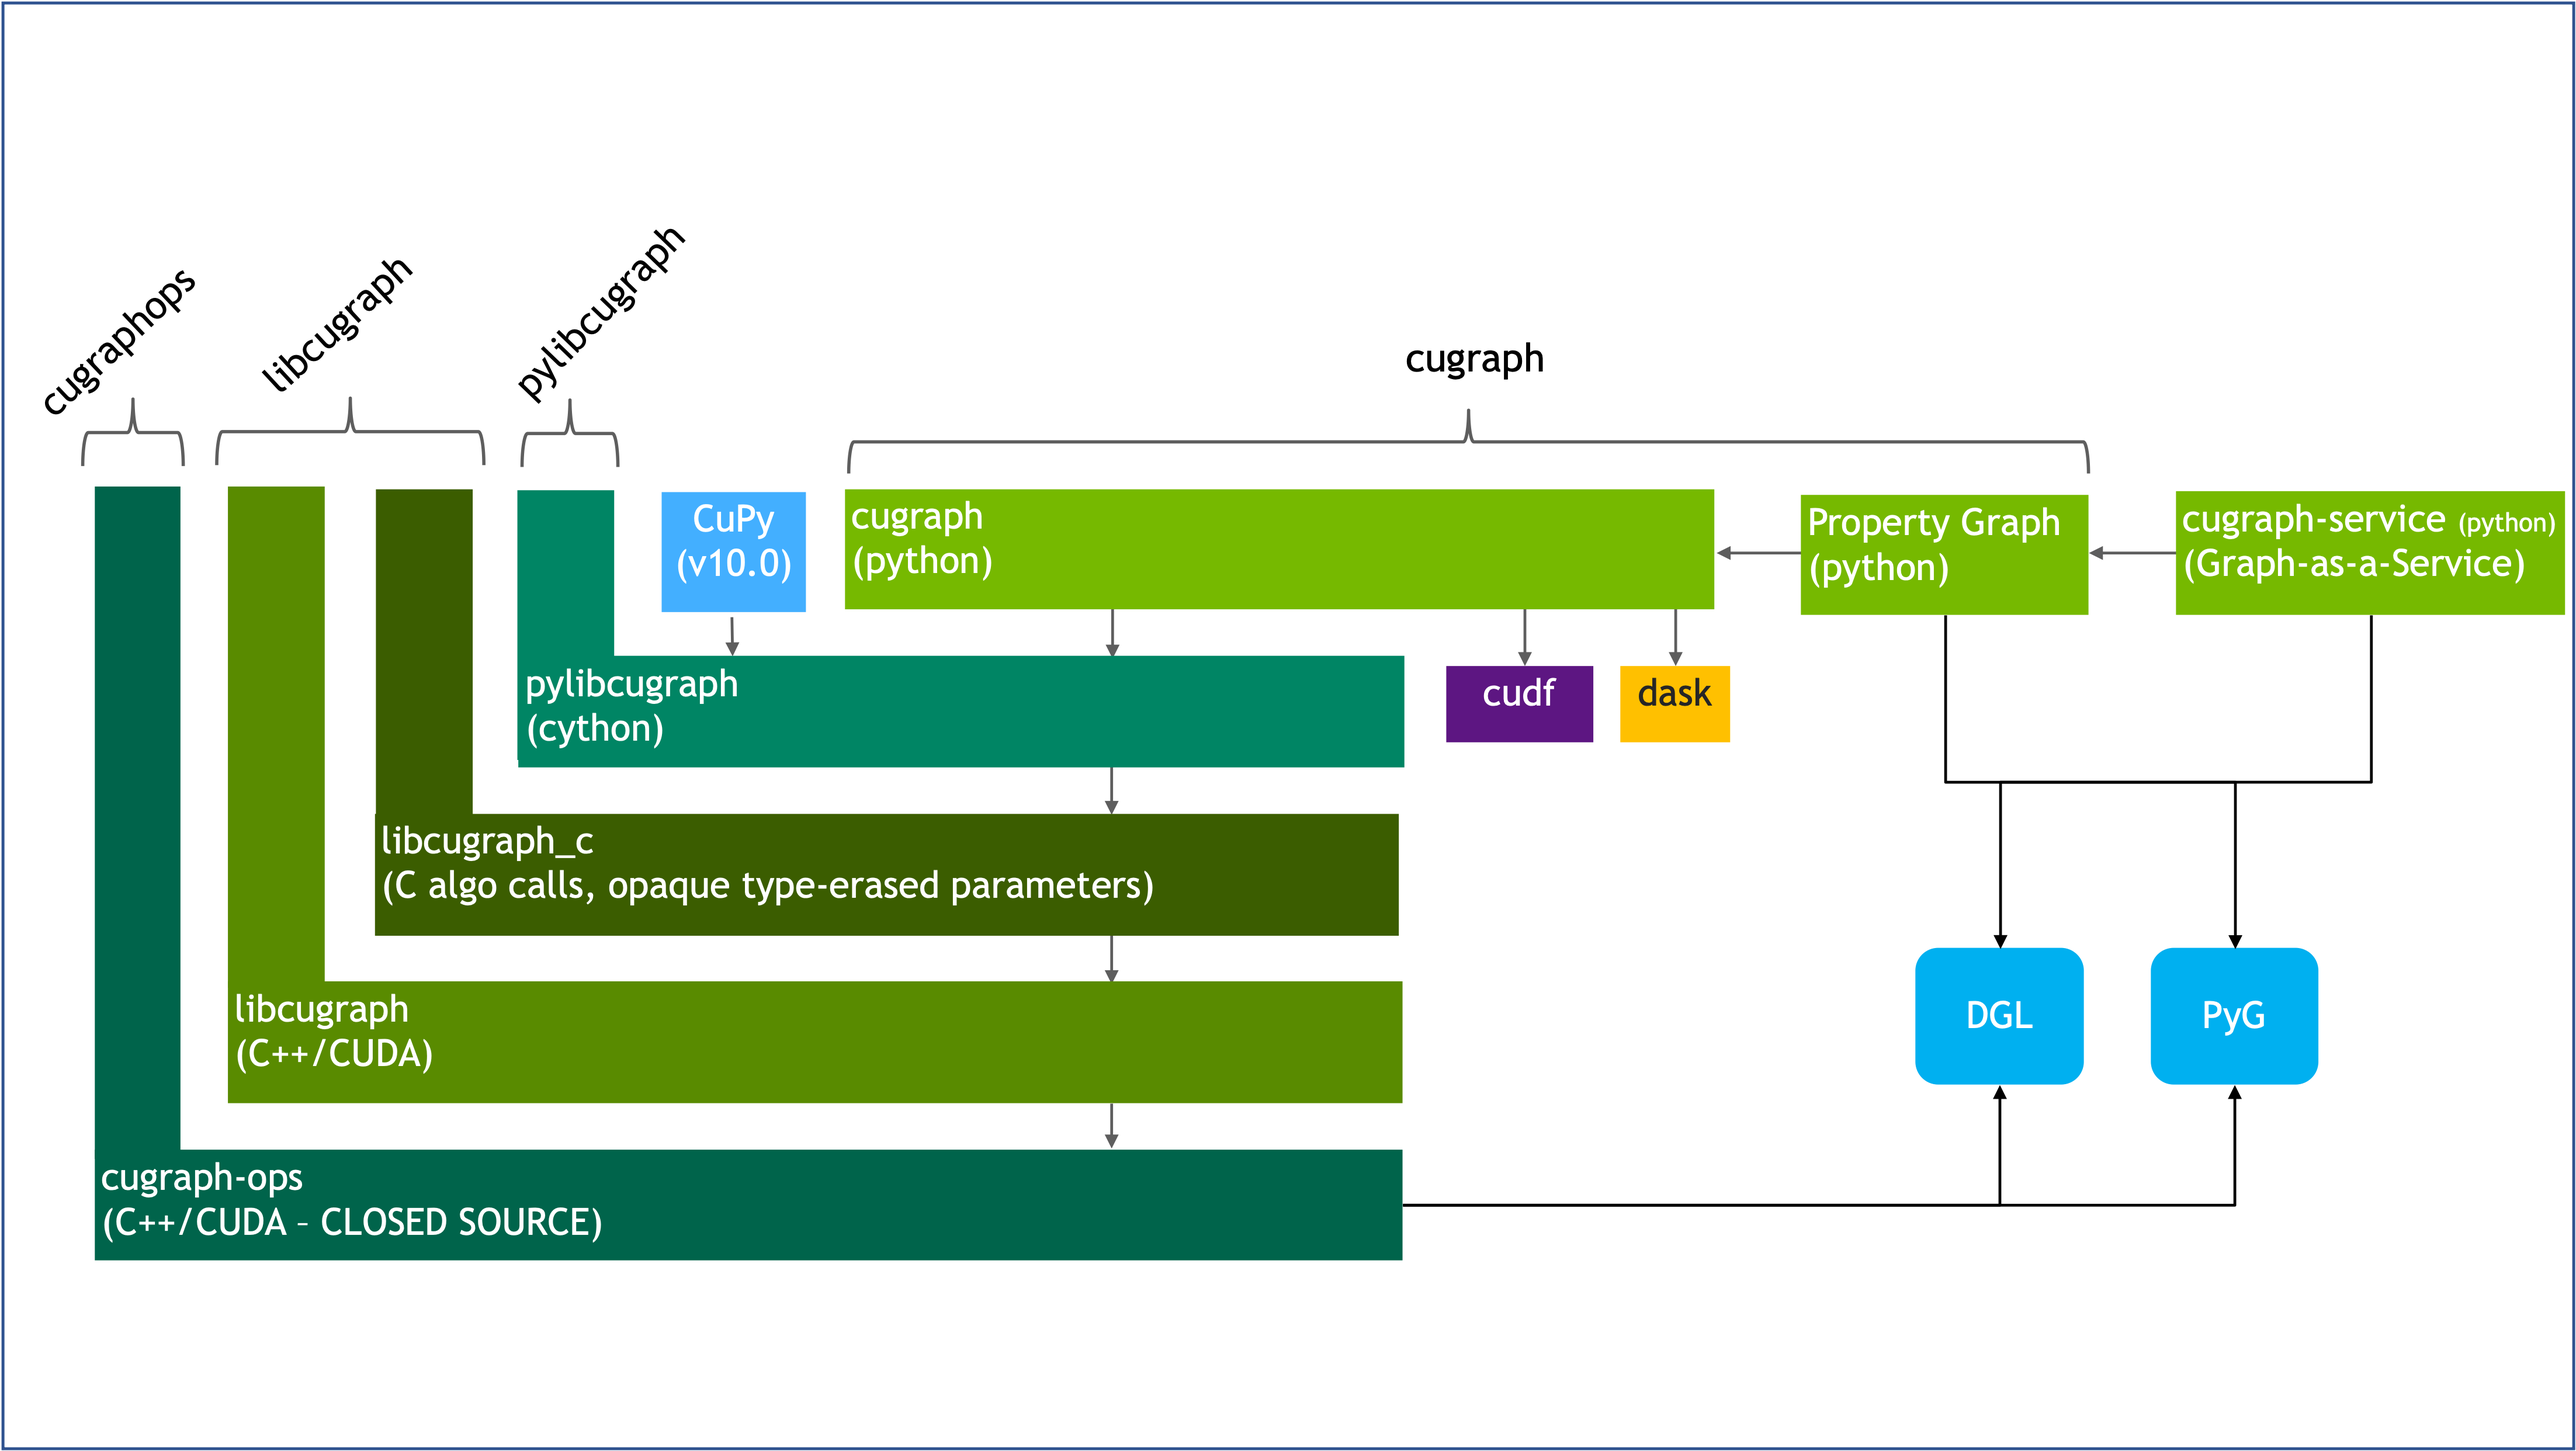
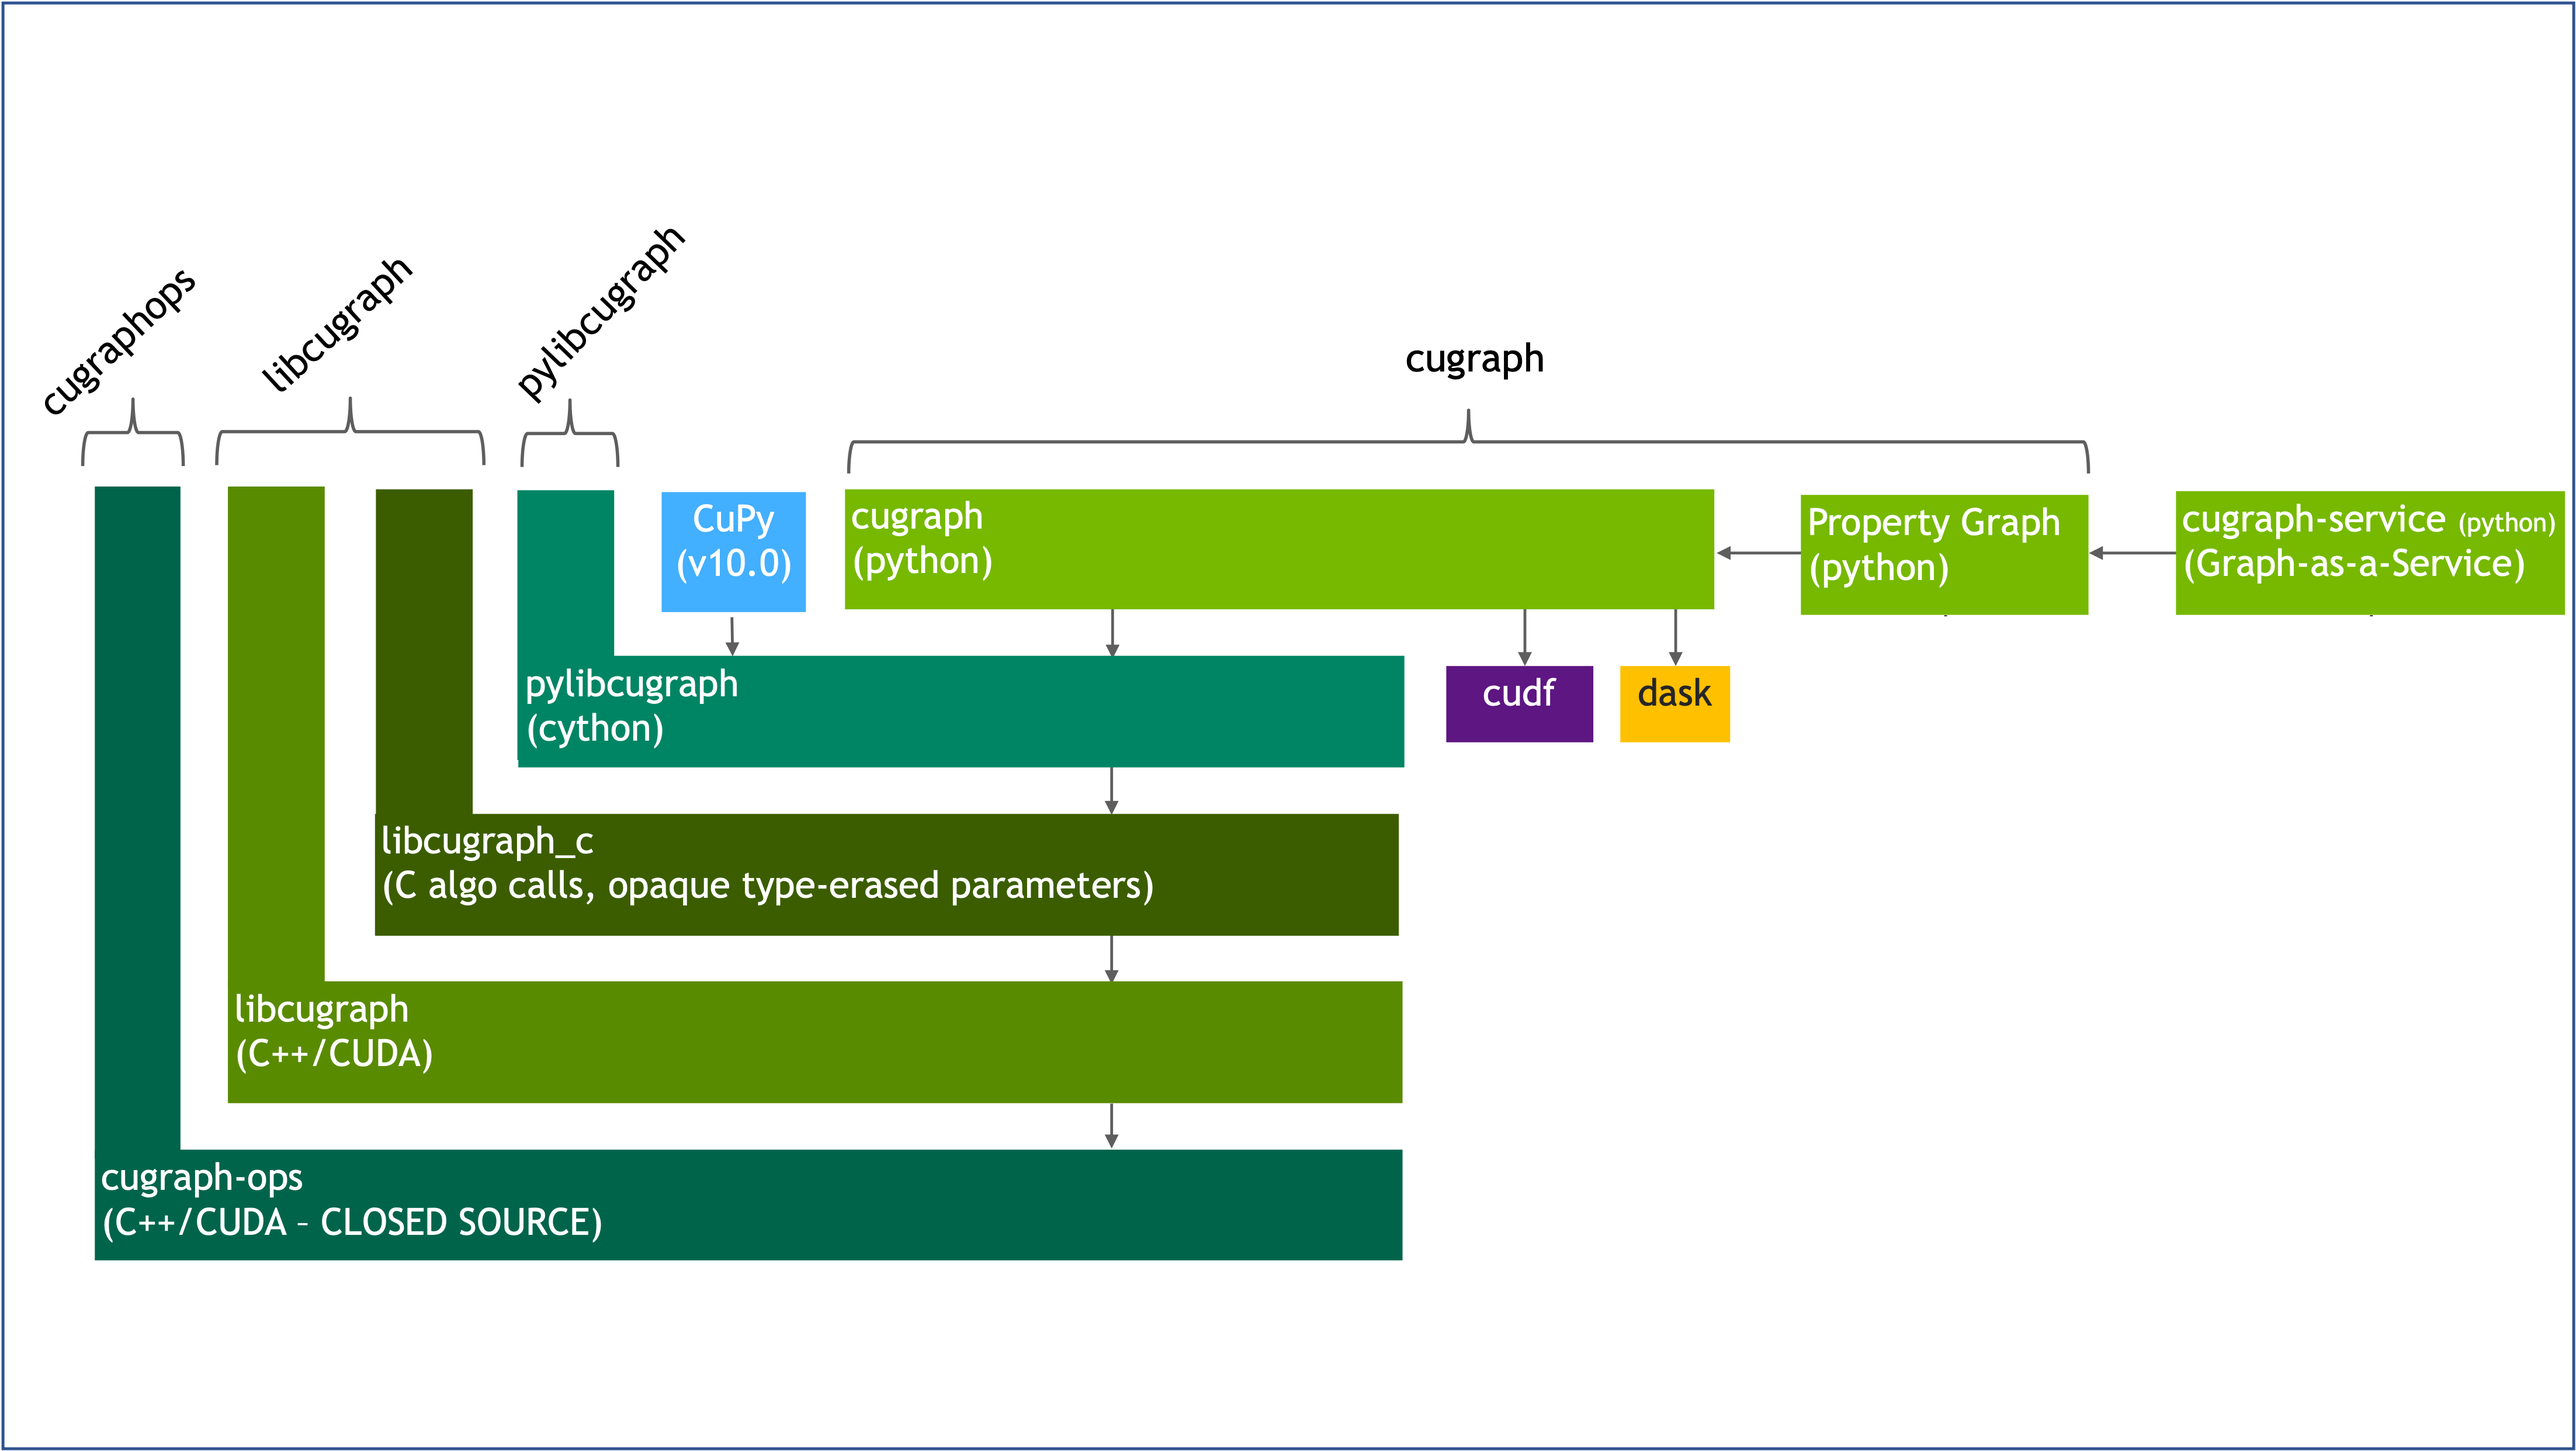
Updates README file to include nx-cugraph user documentation, adds nx-cugraph to main README (#3984)
* Updates the nx-cugraph README file to include nx-cugraph user documentation
* Adds nx-cugraph and new News section to main README
* Updates software strack diagram to remove DGL and PyG since they are not currently using PropertyGraph or cugraph-service

Authors:
   - Rick Ratzel (https://github.com/rlratzel)
   - Ralph Liu (https://github.com/nv-rliu)

Approvers:
   - Brad Rees (https://github.com/BradReesWork)

diff --git a/python/nx-cugraph/README.md b/python/nx-cugraph/README.md
@@ -2,31 +2,134 @@
 
 ## Description
 [RAPIDS](https://rapids.ai) nx-cugraph is a [backend to NetworkX](https://networkx.org/documentation/stable/reference/classes/index.html#backends)
-with minimal dependencies (`networkx`, `cupy`, and `pylibcugraph`) to run graph algorithms on the GPU.
+to run supported algorithms with GPU acceleration.
 
-### Contribute
+## System Requirements
 
-Follow instructions for [contributing to cugraph](https://github.com/rapidsai/cugraph/blob/branch-23.12
-and [building from source](https://docs.rapids.ai/api/cugraph/stable/installation/source_build/), then build nx-cugraph in develop (i.e., editable) mode:
+nx-cugraph requires the following:
+
+ * NVIDIA GPU, Pascal architecture or later
+ * CUDA 11.2, 11.4, 11.5, 11.8, or 12.0
+ * Python versions 3.9, 3.10, or 3.11
+ * NetworkX >= version 3.2
+
+More details about system requirements can be found in the [RAPIDS System Requirements documentation](https://docs.rapids.ai/install#system-req)..
+
+## Installation
+
+nx-cugraph can be installed using either conda or pip.
+
+### conda
 ```
-$ ./build.sh nx-cugraph --pydevelop
+conda install -c rapidsai-nightly -c conda-forge -c nvidia nx-cugraph
+```
+### pip
+```
+python -m pip install nx-cugraph-cu11 --extra-index-url https://pypi.nvidia.com
+```
+Notes:
+
+ * Nightly wheel builds will not be available until the 23.12 release, therefore the index URL for the stable release version is being used in the pip install command above.
+ * Additional information relevant to installing any RAPIDS package can be found [here](https://rapids.ai/#quick-start).
+
+## Enabling nx-cugraph
+
+NetworkX will use nx-cugraph as the graph analytics backend if any of the
+following are are used:
+
+### `NETWORKX_AUTOMATIC_BACKENDS` environment variable.
+The `NETWORKX_AUTOMATIC_BACKENDS` environment variable can be used to have NetworkX automatically dispatch to specified backends an API is called that the backend supports.
+Set `NETWORKX_AUTOMATIC_BACKENDS=cugraph` to use nx-cugraph to GPU accelerate supported APIs with no code changes.
+Example:
+```
+bash> NETWORKX_AUTOMATIC_BACKENDS=cugraph python my_networkx_script.py
 ```
 
-### Run tests
+### `backend=` keyword argument
+To explicitly specify a particular backend for an API, use the `backend=`
+keyword argument. This argument takes precedence over the
+`NETWORKX_AUTOMATIC_BACKENDS` environment variable. This requires anyone
+running code that uses the `backend=` keyword argument to have the specified
+backend installed.
 
-Run nx-cugraph tests from `cugraph/python/nx-cugraph` directory:
+Example:
 ```
-$ pytest
+nx.betweenness_centrality(cit_patents_graph, k=k, backend="cugraph")
 ```
-Run nx-cugraph benchmarks:
+
+### Type-based dispatching
+
+NetworkX also supports automatically dispatching to backends associated with
+specific graph types. Like the `backend=` keyword argument example above, this
+requires the user to write code for a specific backend, and therefore requires
+the backend to be installed, but has the advantage of ensuring a particular
+behavior without the potential for runtime conversions.
+
+To use type-based dispatching with nx-cugraph, the user must import the backend
+directly in their code to access the utilities provided to create a Graph
+instance specifically for the nx-cugraph backend.
+
+Example:
 ```
-$ pytest --bench
+import networkx as nx
+import nx_cugraph as nxcg
+
+G = nx.Graph()
+...
+nxcg_G = nxcg.from_networkx(G)             # conversion happens once here
+nx.betweenness_centrality(nxcg_G, k=1000)  # nxcg Graph type causes cugraph backend
+                                           # to be used, no conversion necessary
 ```
-Run networkx tests (requires networkx version 3.2):
-```
-$ ./run_nx_tests.sh
-```
-Additional arguments may be passed to pytest such as:
-```
-$ ./run_nx_tests.sh -x --sw -k betweenness
-```
+
+## Supported Algorithms
+
+The nx-cugraph backend to NetworkX connects
+[pylibcugraph](../../readme_pages/pylibcugraph.md) (cuGraph's low-level python
+interface to its CUDA-based graph analytics library) and
+[CuPy](https://cupy.dev/) (a GPU-accelerated array library) to NetworkX's
+familiar and easy-to-use API.
+
+Below is the list of algorithms (many listed using pylibcugraph names),
+available today in pylibcugraph or implemented using CuPy, that are or will be
+supported in nx-cugraph.
+
+| feature/algo | release/target version |
+| ----- | ----- |
+| analyze_clustering_edge_cut | ? |
+| analyze_clustering_modularity | ? |
+| analyze_clustering_ratio_cut | ? |
+| balanced_cut_clustering | ? |
+| betweenness_centrality | 23.10 |
+| bfs | ? |
+| core_number | ? |
+| degree_centrality | 23.12 |
+| ecg | ? |
+| edge_betweenness_centrality | 23.10 |
+| ego_graph | ? |
+| eigenvector_centrality | 23.12 |
+| get_two_hop_neighbors | ? |
+| hits | 23.12 |
+| in_degree_centrality | 23.12 |
+| induced_subgraph | ? |
+| jaccard_coefficients | ? |
+| katz_centrality | 23.12 |
+| k_core | ? |
+| k_truss_subgraph | 23.12 |
+| leiden | ? |
+| louvain | 23.10 |
+| node2vec | ? |
+| out_degree_centrality | 23.12 |
+| overlap_coefficients | ? |
+| pagerank | 23.12 |
+| personalized_pagerank | ? |
+| sorensen_coefficients | ? |
+| spectral_modularity_maximization | ? |
+| sssp | 23.12 |
+| strongly_connected_components | ? |
+| triangle_count | ? |
+| uniform_neighbor_sample | ? |
+| uniform_random_walks | ? |
+| weakly_connected_components | ? |
+
+To request nx-cugraph backend support for a NetworkX API that is not listed
+above, visit the [cuGraph GitHub repo](https://github.com/rapidsai/cugraph).

diff --git a/README.md b/README.md
@@ -35,8 +35,18 @@
 </div>
 
 -----
+## News
 
-## Table of content
+___NEW!___   _[nx-cugraph](./python/nx-cugraph/README.md)_, a NetworkX backend that provides GPU acceleration to NetworkX with zero code change.
+```
+> pip install nx-cugraph-cu11 --extra-index-url https://pypi.nvidia.com
+> export NETWORKX_AUTOMATIC_BACKENDS=cugraph
+```
+That's it.  NetworkX now leverages cuGraph for accelerated graph algorithms.
+
+-----
+
+## Table of contents
 - Installation
   - [Getting cuGraph Packages](./docs/cugraph/source/installation/getting_cugraph.md)
   - [Building from Source](./docs/cugraph/source/installation/source_build.md)
@@ -52,6 +62,7 @@
     - [External Data Types](./readme_pages/data_types.md)
   - [pylibcugraph](./readme_pages/pylibcugraph.md)
   - [libcugraph (C/C++/CUDA)](./readme_pages/libcugraph.md)
+  - [nx-cugraph](./python/nx-cugraph/README.md)
   - [cugraph-service](./readme_pages/cugraph_service.md)
   - [cugraph-dgl](./readme_pages/cugraph_dgl.md)
   - [cugraph-ops](./readme_pages/cugraph_ops.md)
@@ -116,6 +127,7 @@ df_page.sort_values('pagerank', ascending=False).head(10)
 * ArangoDB - a free and open-source native multi-model database system  - https://www.arangodb.com/
 * CuPy - "NumPy/SciPy-compatible Array Library for GPU-accelerated Computing with Python" -  https://cupy.dev/
 * Memgraph - In-memory Graph database - https://memgraph.com/
+* NetworkX (via [nx-cugraph](./python/nx-cugraph/README.md) backend) - an extremely popular, free and open-source package for the creation, manipulation, and study of the structure, dynamics, and functions of complex networks - https://networkx.org/
 * PyGraphistry - free and open-source GPU graph ETL, AI, and visualization, including native RAPIDS & cuGraph support - http://github.com/graphistry/pygraphistry
 * ScanPy - a scalable toolkit for analyzing single-cell gene expression data - https://scanpy.readthedocs.io/en/stable/
 
